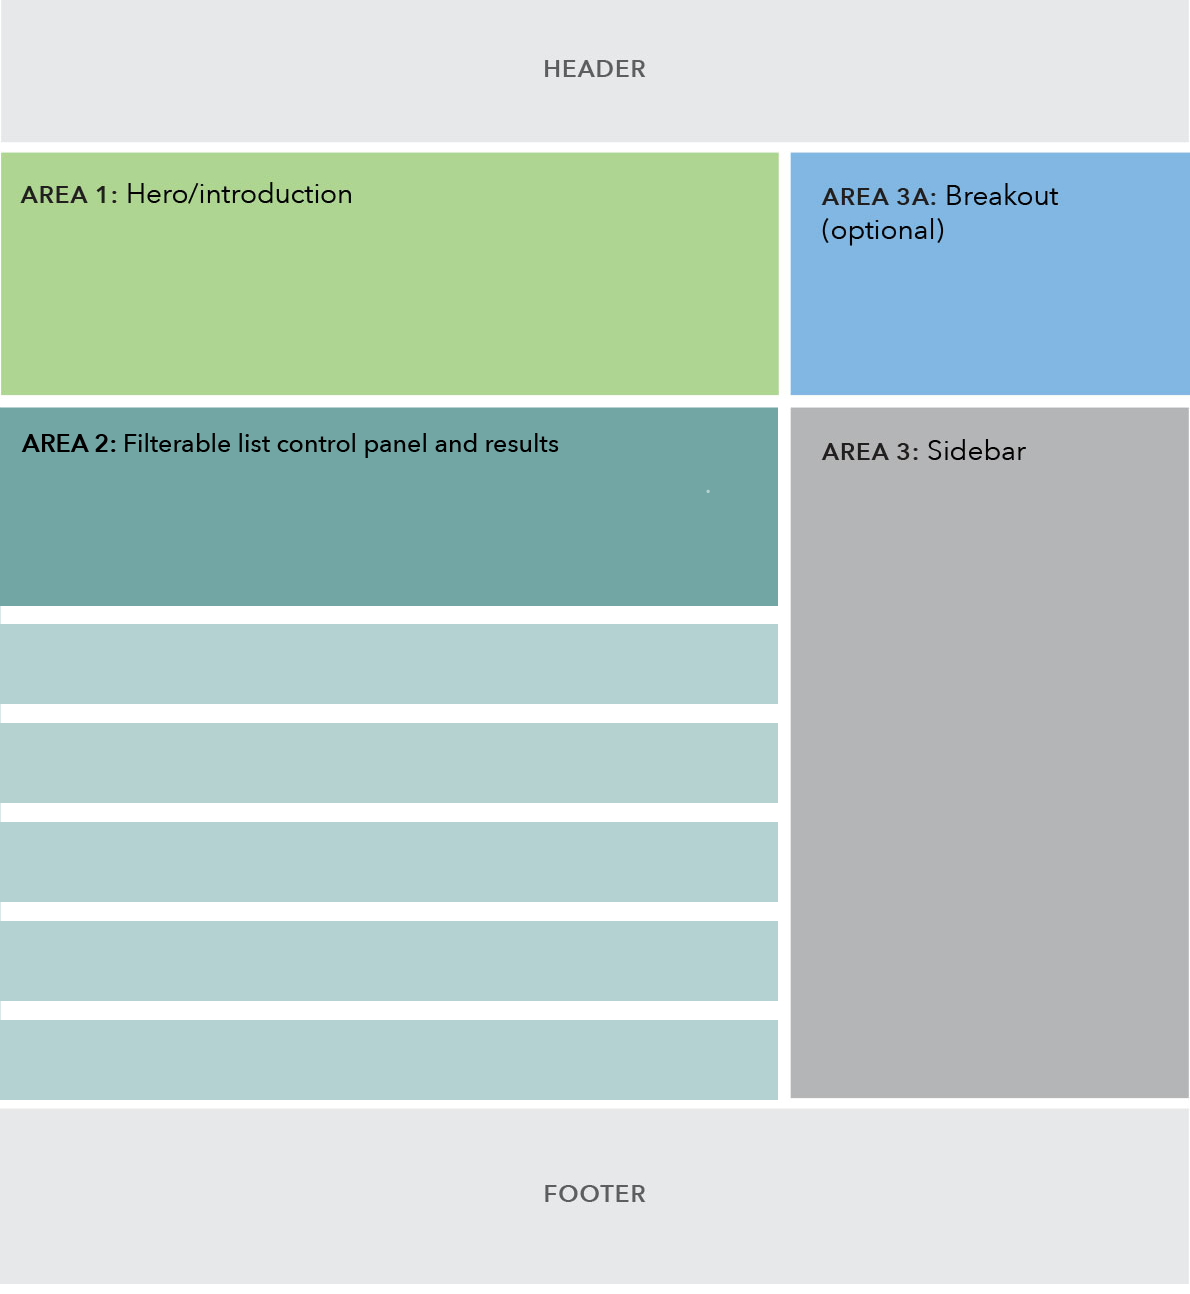
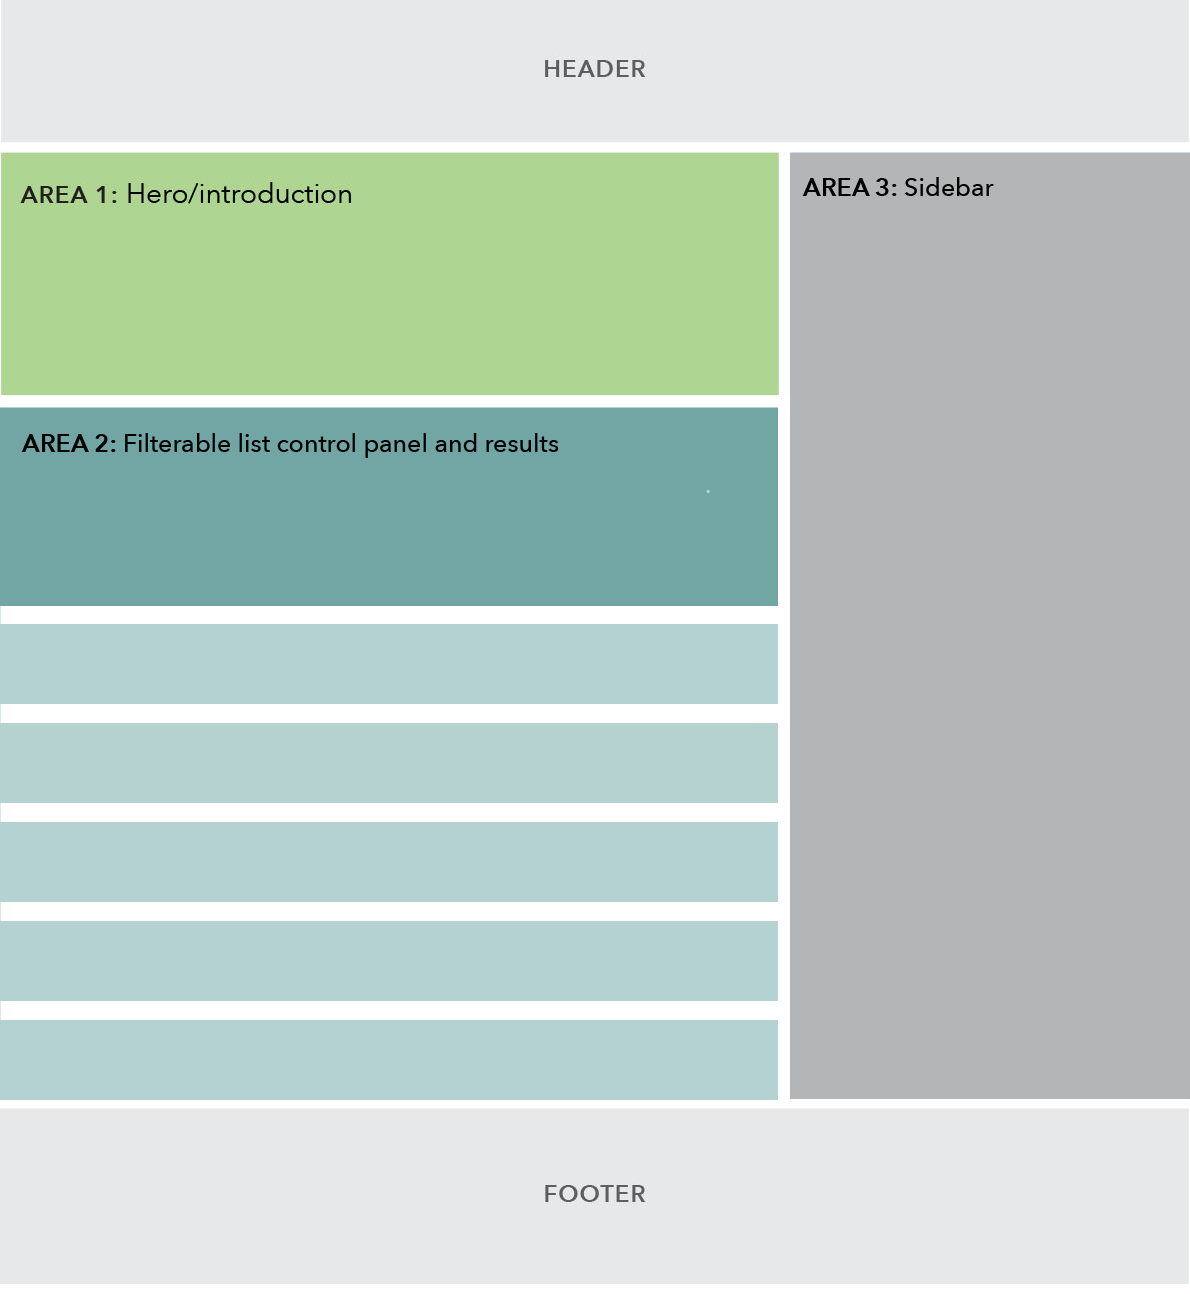
Update "filterable-list-pages" page

Changed region(s): [[0.6529, 0.0927, 1.0, 0.8346]]

diff --git a/docs/pages/filterable-list-pages.md b/docs/pages/filterable-list-pages.md
@@ -24,8 +24,10 @@ variation_groups:
 
       | Example: [Research and reports](https://www.consumerfinance.gov/data-research/research-reports/) | Example: [Final rules](https://www.consumerfinance.gov/policy-compliance/rulemaking/final-rules/) |
 use_cases: >-
-  ### When to use
+  ![](/design-system/images/uploads/filterable-list-sublanding-wireframe.png)
 
+
+  ### When to use
 
 
   * When asking users to look through more than 20 articles, documents, or resources.
